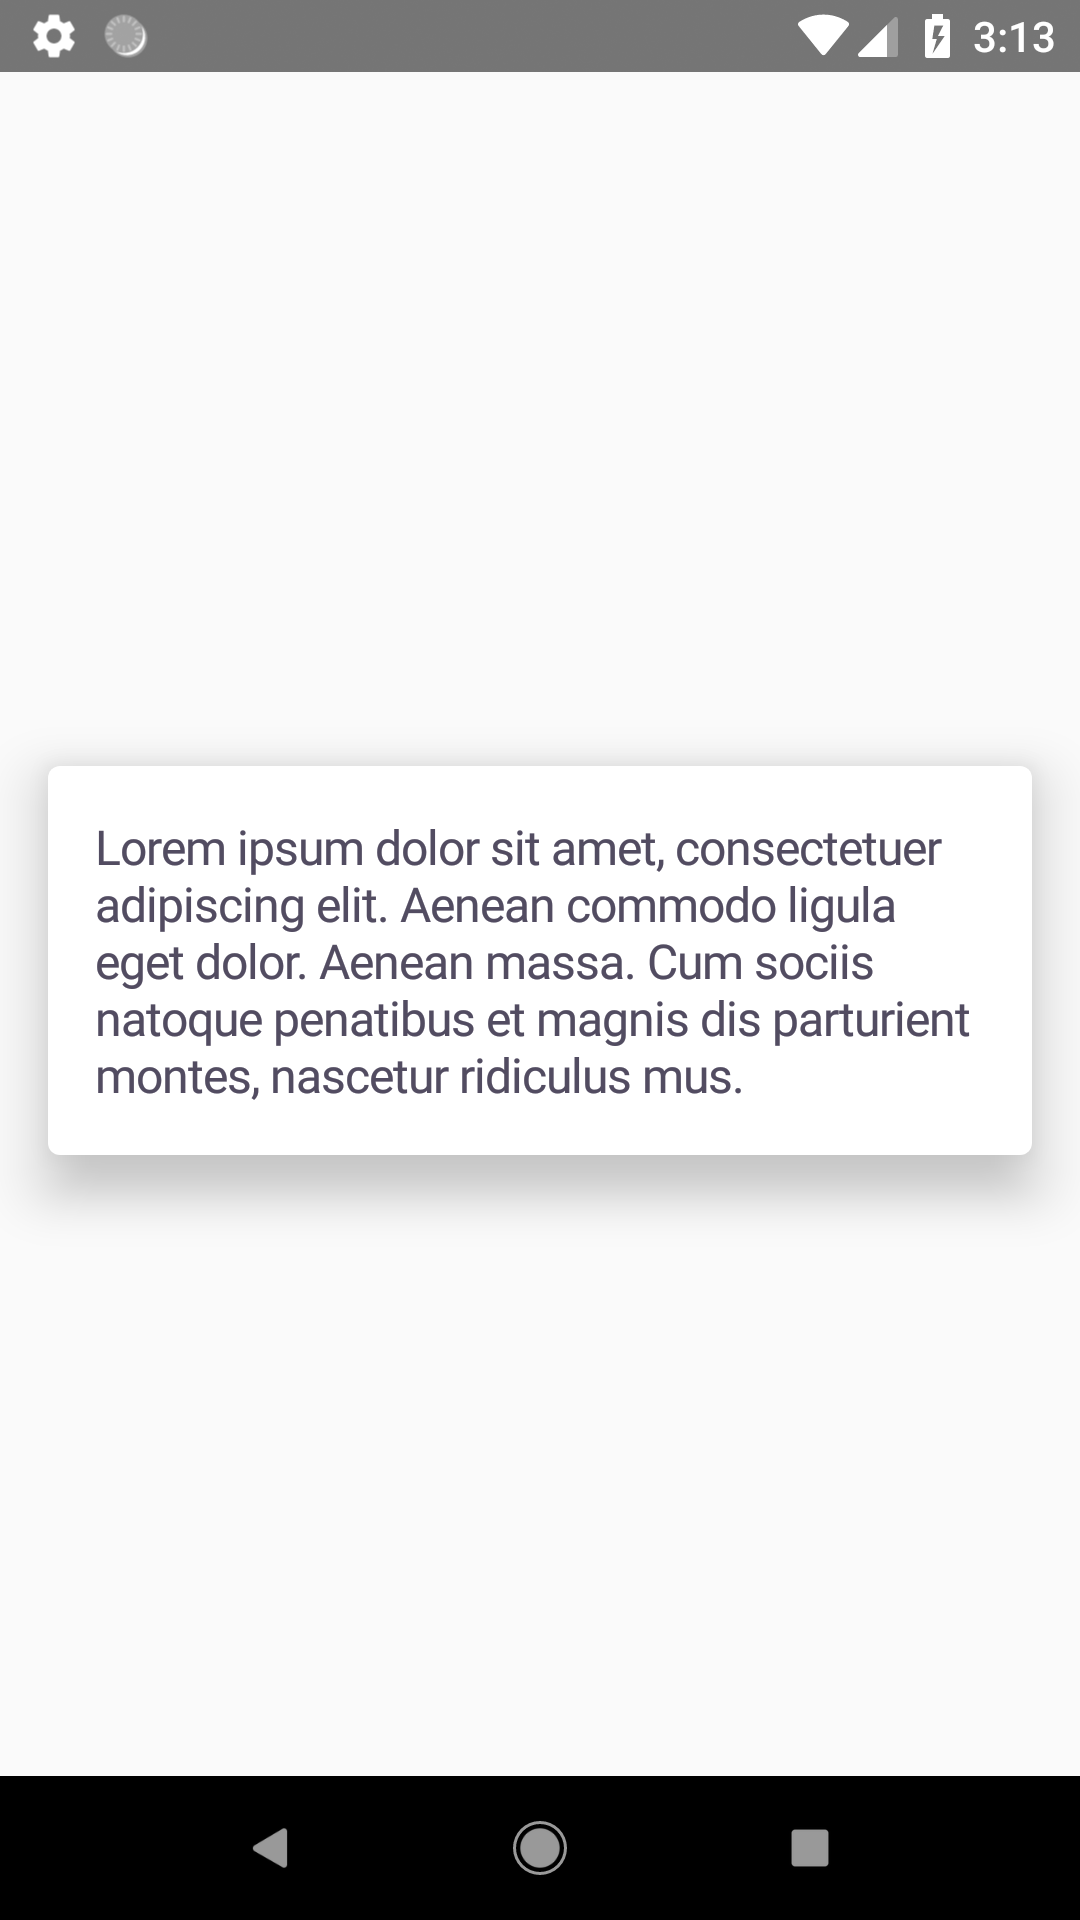
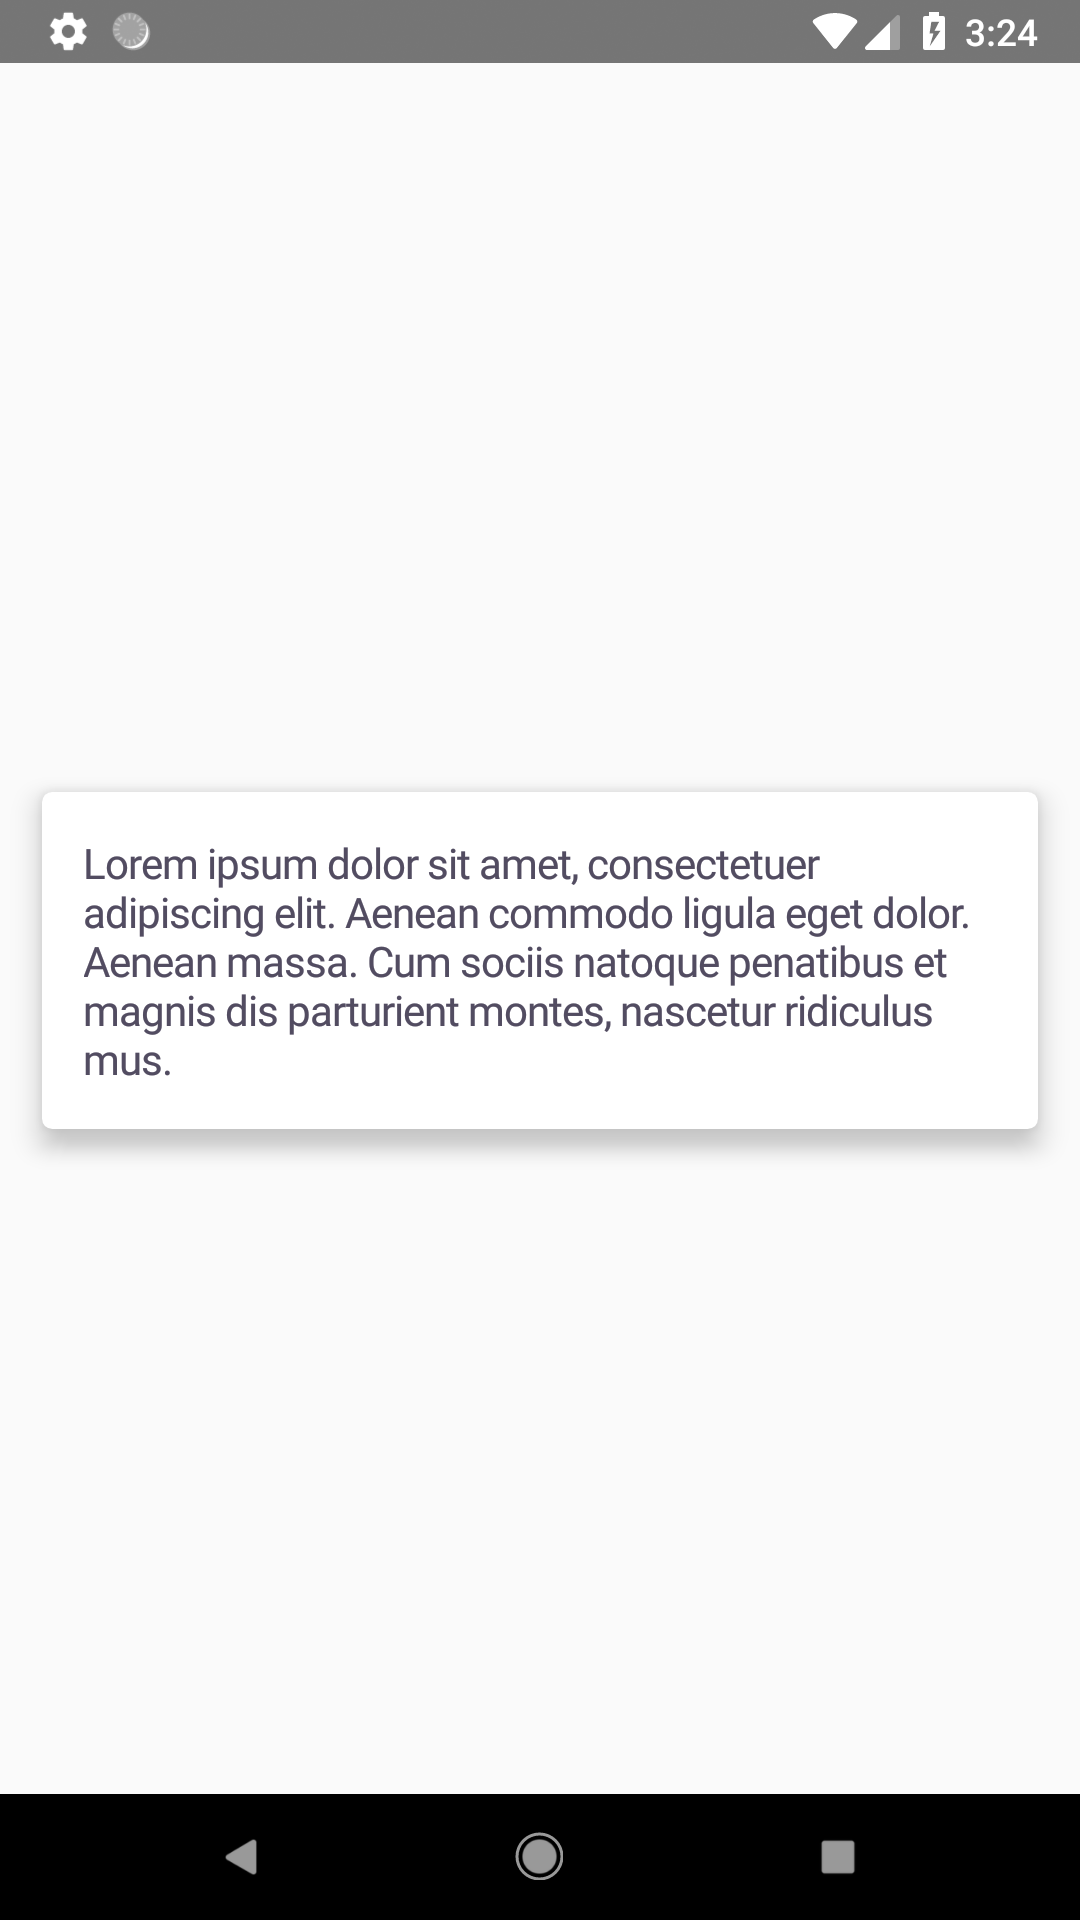
[BPK-2056] Change Android elevation tokens

Changed region(s): [[0.0306, 0.4062, 0.9778, 0.625], [0.0, 0.0, 1.0, 0.0625], [0.0, 0.9062, 1.0, 1.0]]

diff --git a/packages/bpk-tokens/tokens/android/base.react.native.es6.js b/packages/bpk-tokens/tokens/android/base.react.native.es6.js
@@ -96,11 +96,12 @@ export const colorYellow600 = "rgb(240, 176, 0)";
 export const colorYellow700 = "rgb(225, 165, 0)";
 export const colorYellow800 = "rgb(194, 142, 0)";
 export const colorYellow900 = "rgb(156, 114, 0)";
-export const elevationBase = 6;
-export const elevationLg = 16;
-export const elevationSm = 4;
-export const elevationXl = 24;
-export const elevationXs = 2;
+export const elevationBase = 4;
+export const elevationLg = 8;
+export const elevationSm = 2;
+export const elevationXl = 16;
+export const elevationXs = 1;
+export const elevationXxl = 24;
 export const fontFamily = "sans-serif";
 export const fontFamilyEmphasize = "sans-serif-medium";
 export const fontFamilyHeavy = "sans-serif-black";
@@ -249,6 +250,7 @@ elevationLg,
 elevationSm,
 elevationXl,
 elevationXs,
+elevationXxl,
 };
 export const fontSizes = {
 textBaseFontSize,

diff --git a/packages/bpk-tokens/tokens/base.react.native.android.js b/packages/bpk-tokens/tokens/base.react.native.android.js
@@ -96,11 +96,12 @@ export const colorYellow600 = "rgb(240, 176, 0)";
 export const colorYellow700 = "rgb(225, 165, 0)";
 export const colorYellow800 = "rgb(194, 142, 0)";
 export const colorYellow900 = "rgb(156, 114, 0)";
-export const elevationBase = 6;
-export const elevationLg = 16;
-export const elevationSm = 4;
-export const elevationXl = 24;
-export const elevationXs = 2;
+export const elevationBase = 4;
+export const elevationLg = 8;
+export const elevationSm = 2;
+export const elevationXl = 16;
+export const elevationXs = 1;
+export const elevationXxl = 24;
 export const fontFamily = "sans-serif";
 export const fontFamilyEmphasize = "sans-serif-medium";
 export const fontFamilyHeavy = "sans-serif-black";
@@ -249,6 +250,7 @@ elevationLg,
 elevationSm,
 elevationXl,
 elevationXs,
+elevationXxl,
 };
 export const fontSizes = {
 textBaseFontSize,

diff --git a/packages/bpk-tokens/tokens/android/base.react.native.common.js b/packages/bpk-tokens/tokens/android/base.react.native.common.js
@@ -98,11 +98,12 @@ module.exports = {
   colorYellow700: "rgb(225, 165, 0)",
   colorYellow800: "rgb(194, 142, 0)",
   colorYellow900: "rgb(156, 114, 0)",
-  elevationBase: 6,
-  elevationLg: 16,
-  elevationSm: 4,
-  elevationXl: 24,
-  elevationXs: 2,
+  elevationBase: 4,
+  elevationLg: 8,
+  elevationSm: 2,
+  elevationXl: 16,
+  elevationXs: 1,
+  elevationXxl: 24,
   fontFamily: "sans-serif",
   fontFamilyEmphasize: "sans-serif-medium",
   fontFamilyHeavy: "sans-serif-black",

diff --git a/native/packages/react-native-bpk-component-chip/src/BpkChipInner.android.js b/native/packages/react-native-bpk-component-chip/src/BpkChipInner.android.js
@@ -24,14 +24,14 @@ import { View, StyleSheet } from 'react-native';
 import BpkTouchableNativeFeedback from 'react-native-bpk-component-touchable-native-feedback';
 import {
   borderRadiusPill,
-  elevationXs,
+  elevationSm,
 } from 'bpk-tokens/tokens/base.react.native';
 
 import { type InnerProps } from './common-types';
 
 const styles = StyleSheet.create({
   wrapper: {
-    elevation: elevationXs,
+    elevation: elevationSm,
     borderRadius: borderRadiusPill,
   },
 });

diff --git a/native/packages/react-native-bpk-component-card/src/BpkCard.android.js b/native/packages/react-native-bpk-component-card/src/BpkCard.android.js
@@ -19,7 +19,7 @@
 import { View, StyleSheet, ViewPropTypes } from 'react-native';
 import {
   colorWhite,
-  elevationXs,
+  elevationSm,
   elevationLg,
   borderRadiusSm,
   spacingBase,
@@ -32,7 +32,7 @@ const styles = StyleSheet.create({
   card: {
     backgroundColor: colorWhite,
     borderRadius: borderRadiusSm,
-    elevation: elevationXs,
+    elevation: elevationSm,
   },
   cardPadded: {
     padding: spacingBase,

diff --git a/packages/bpk-tokens/src/react-native-output-test.js b/packages/bpk-tokens/src/react-native-output-test.js
@@ -31,6 +31,7 @@ const ANDROID_ONLY_PROPS = [
   'ELEVATION_BASE',
   'ELEVATION_LG',
   'ELEVATION_XL',
+  'ELEVATION_XXL',
 ];
 
 const IOS_ONLY_PROPS = [

diff --git a/UNRELEASED.md b/UNRELEASED.md
@@ -1,1 +1,8 @@
 # Unreleased
+
+**Changed:**
+
+- bpk-tokens:
+  - Changed elevation token values. Also added a new `elevationXxl` token. See https://backpack.github.io/tokens/shadows for the new values.
+- react-native-bpk-component-card:
+  - Focused cards now have a slightly different shadow to reflect the above elevation token changes.
